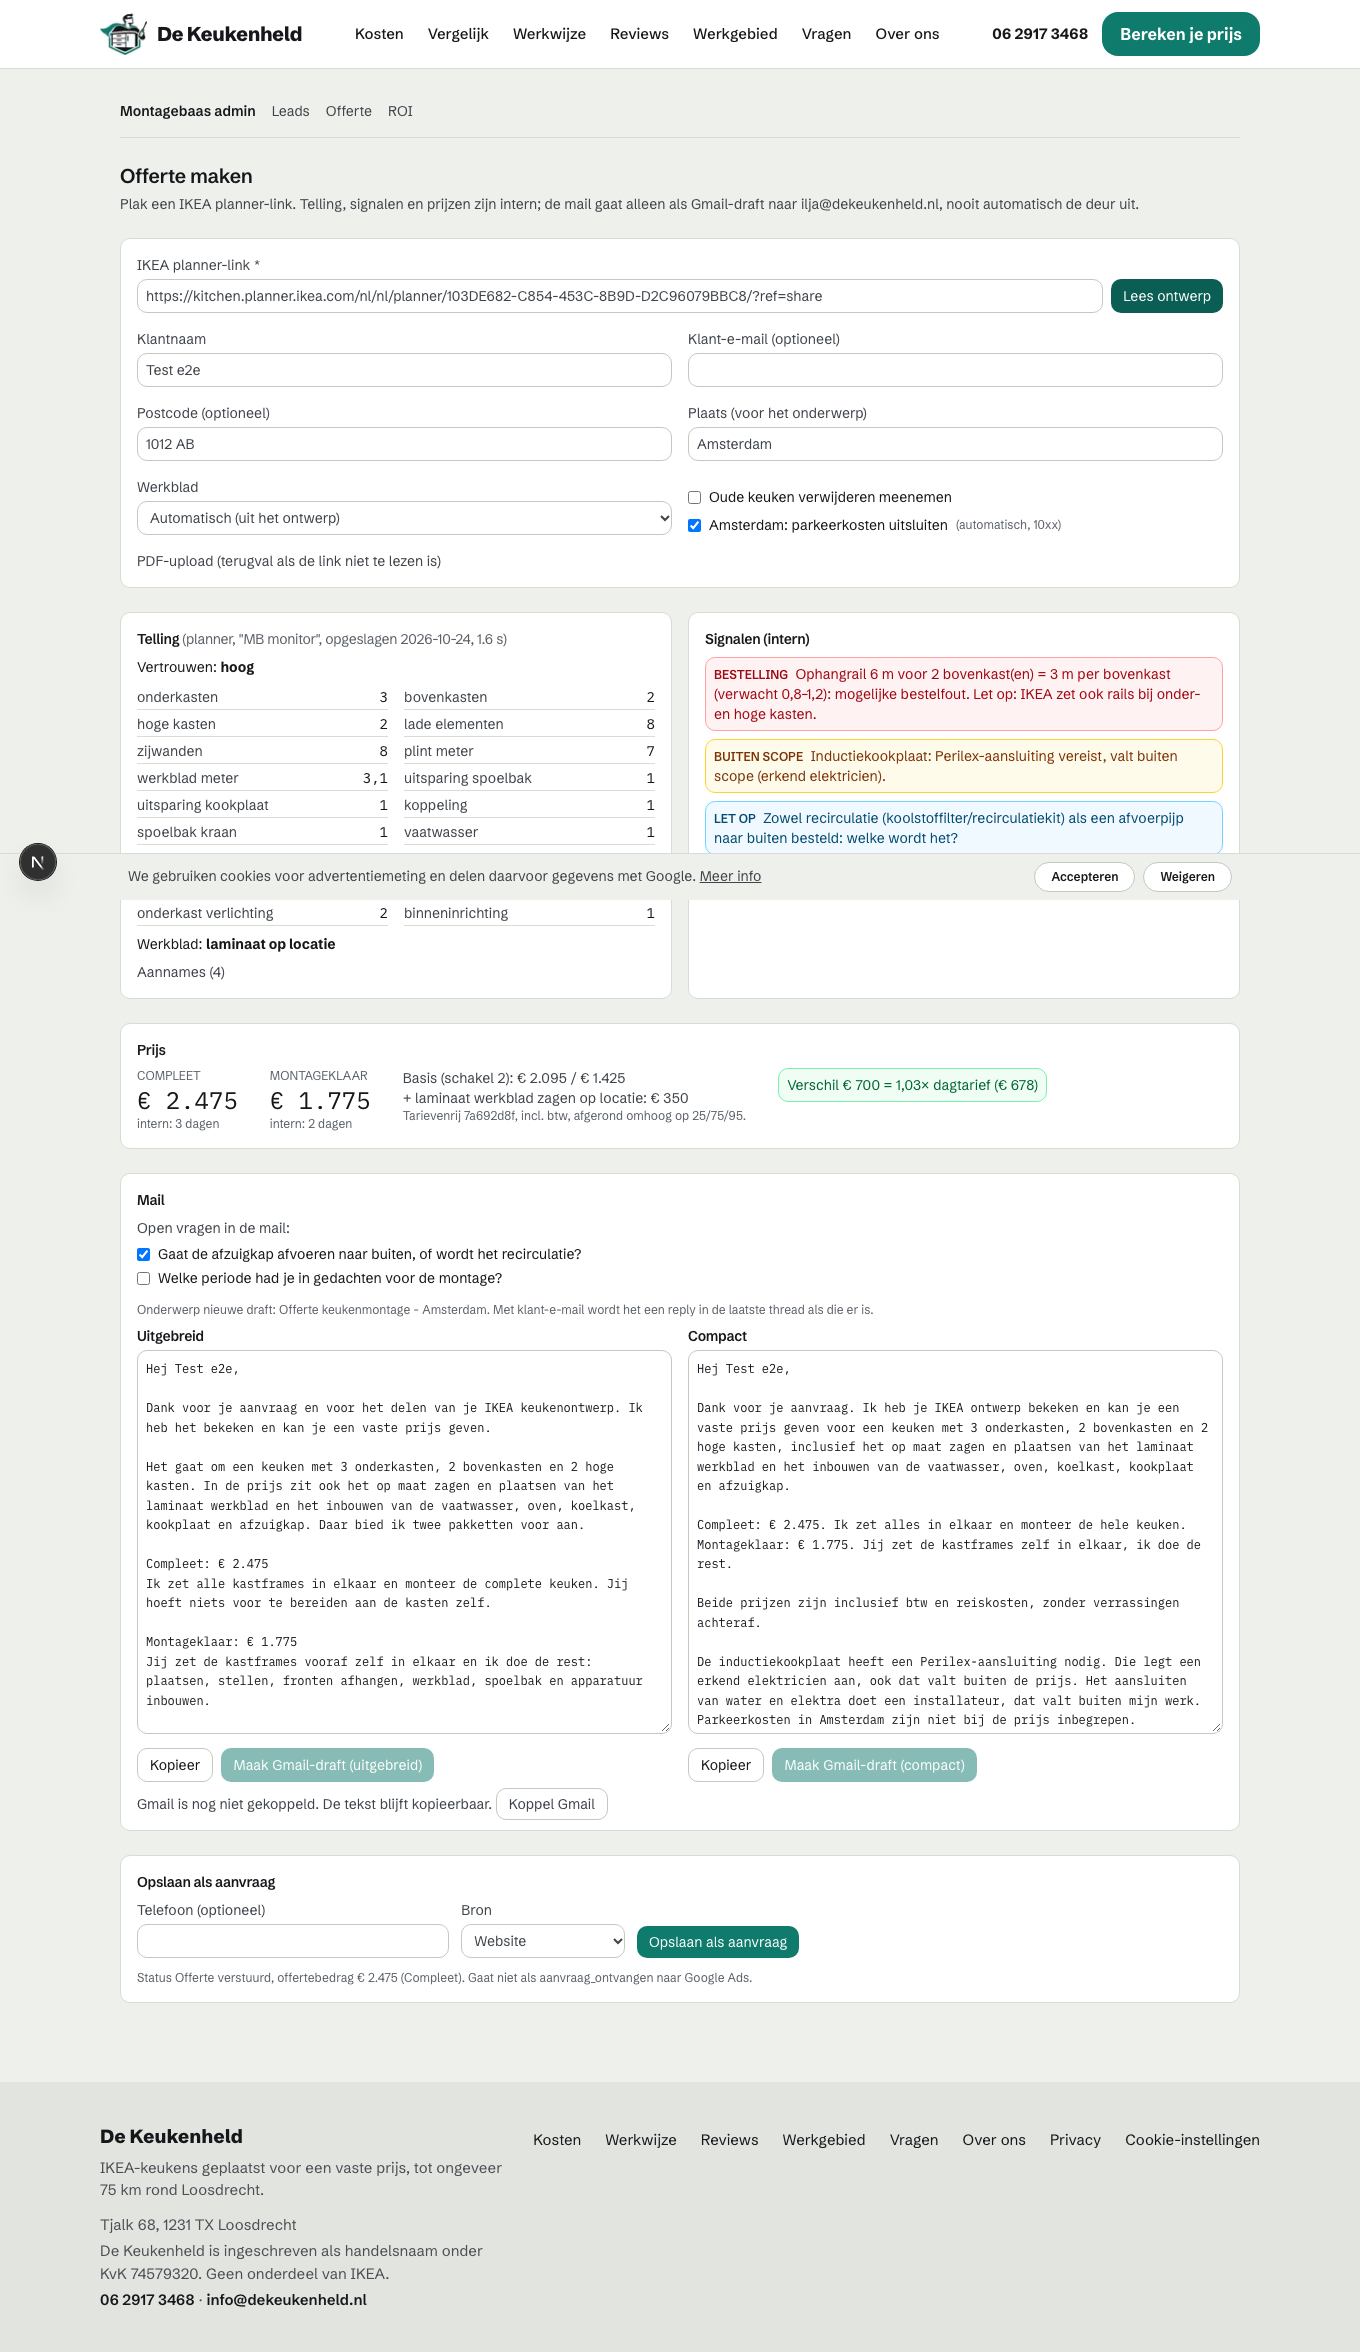
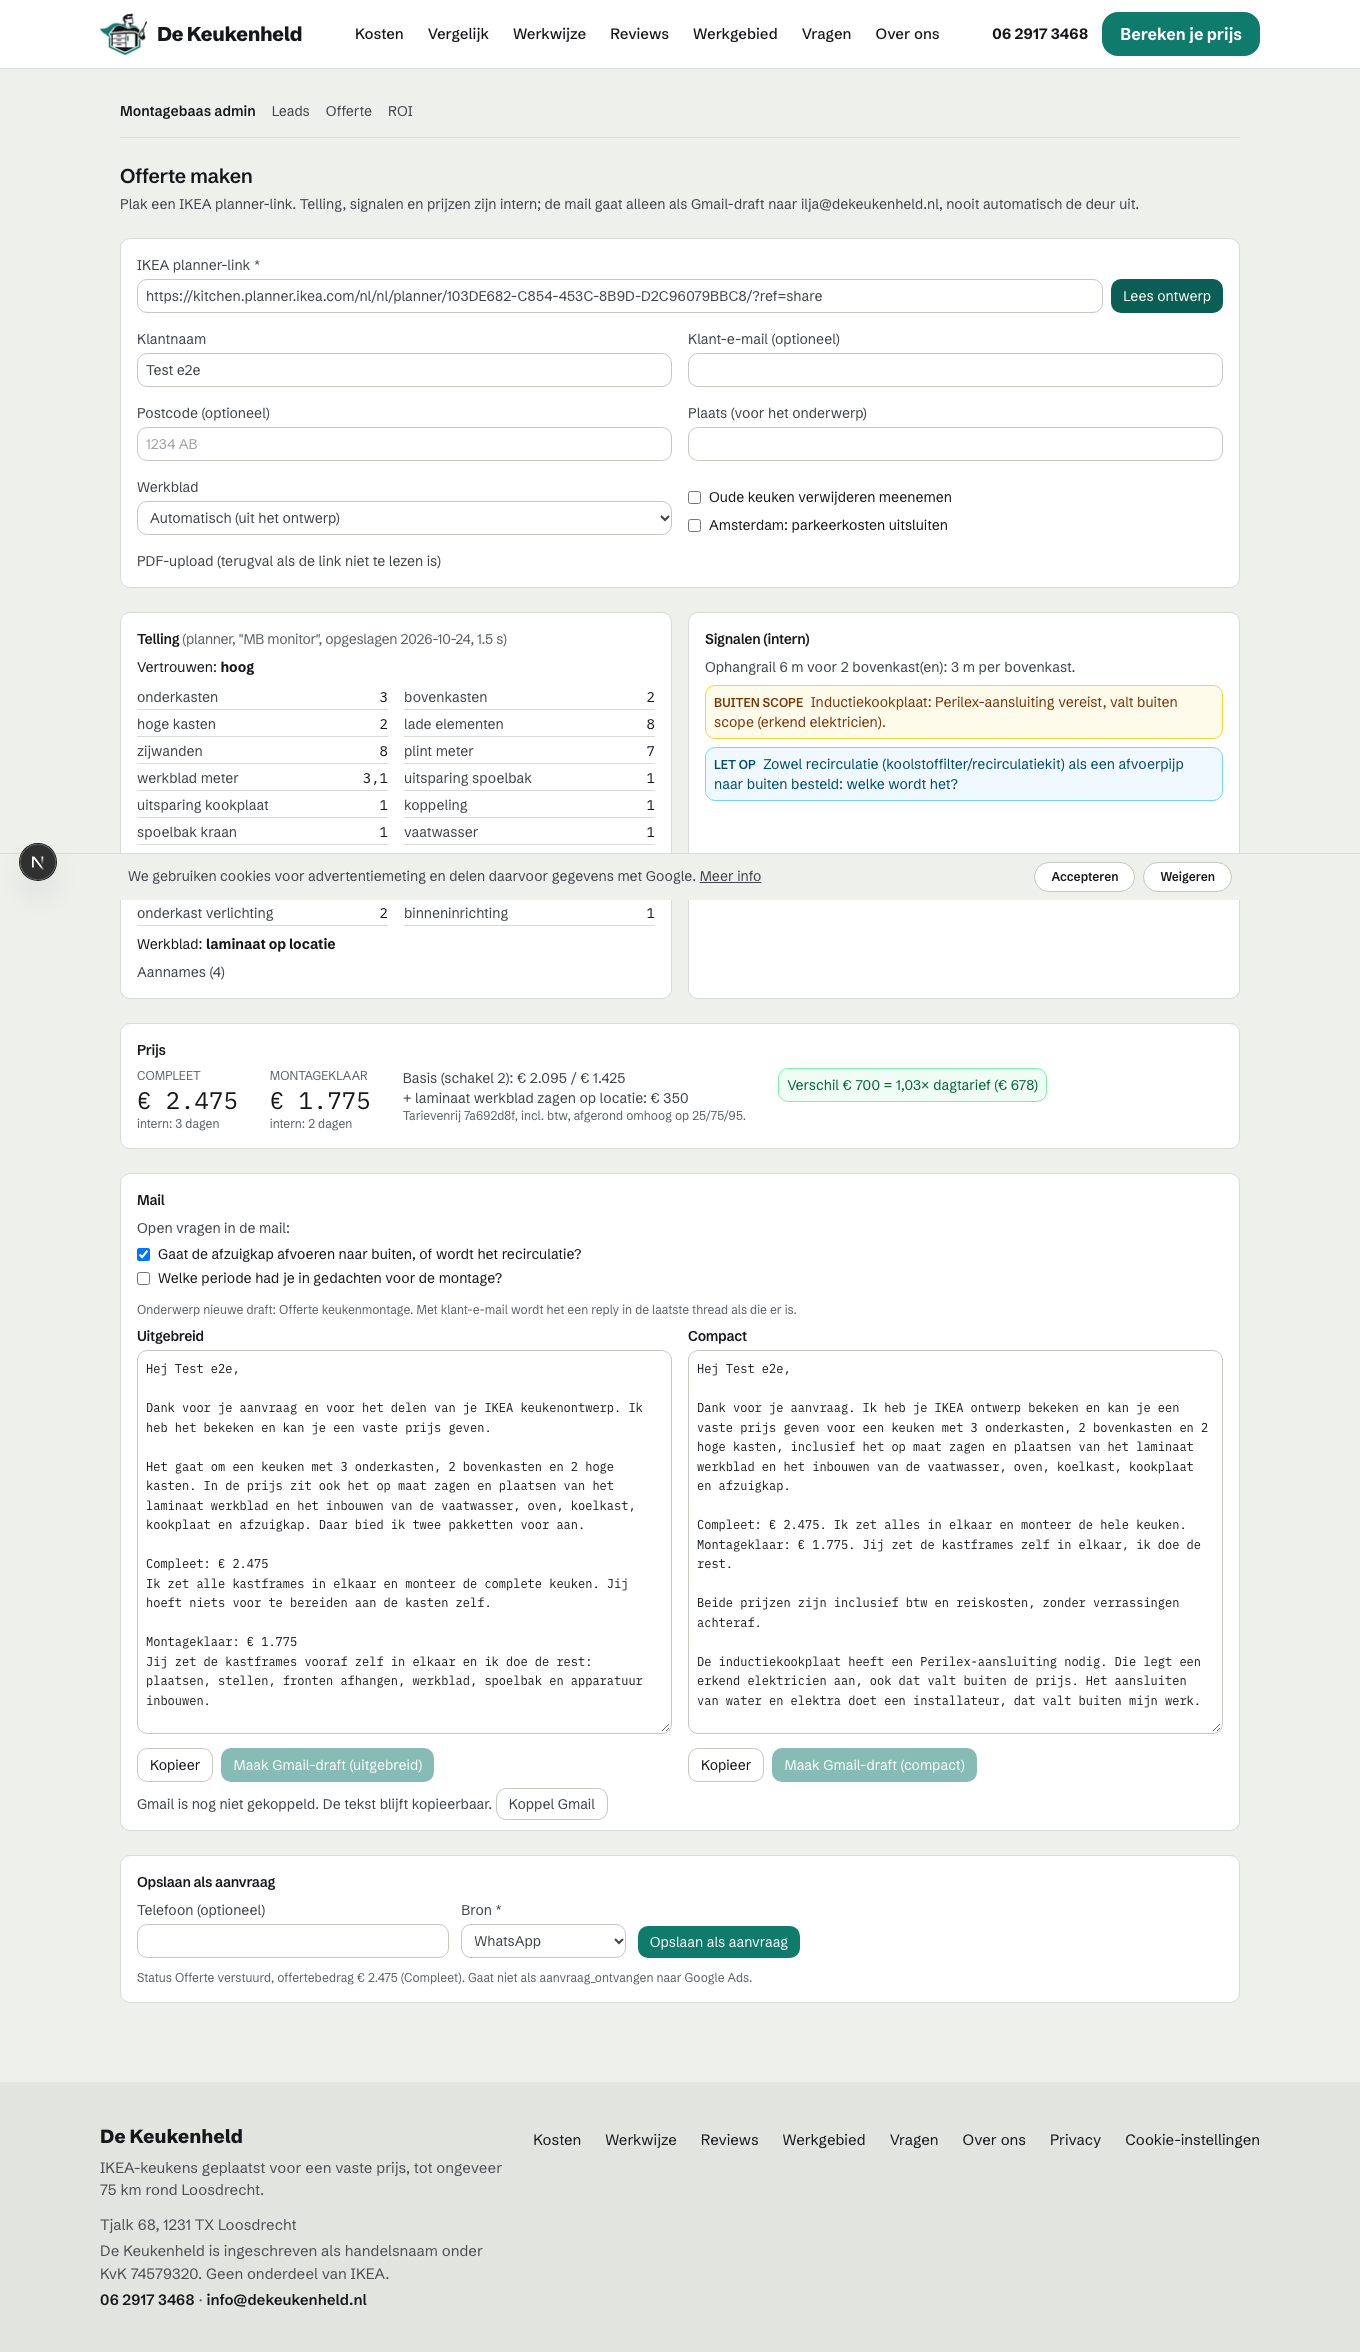
Admin-offerte: hangrail als info, bron verplicht met E-mail/WhatsApp/Telefoon
- Ophangrail per bovenkast is geen signaal meer, alleen een informatieregel.
- Bronkeuze bij opslaan verplicht, zonder standaard: Website, Werkspot,
  E-mail, WhatsApp, Telefoon, Overig. 0020 voegt email/whatsapp/telefoon
  toe aan lead_bron; alleen website blijft naar Google Ads gaan.

Changed region(s): [[0.525, 0.2793, 0.8956, 0.3724]]

diff --git a/src/app/admin/offerte/OfferteTool.tsx b/src/app/admin/offerte/OfferteTool.tsx
@@ -3,11 +3,11 @@
 import { useEffect, useMemo, useRef, useState, useTransition } from "react";
 import type { KoppelStatus } from "@/lib/gmail/client";
 import type { Analyse, AnalyseUitkomst, BestaandeAanvraag } from "@/lib/admin-offerte/server";
-import { LEAD_BRONNEN, type LeadBron } from "@/lib/db.types";
+import type { LeadBron } from "@/lib/db.types";
 import { parsePlannerLink } from "@/lib/ikea-planner/link";
 import { TELVELDEN } from "@/lib/rekenen";
 import { WERKBLAD_KEUZES, berekenOffertePrijs, effectiefWerkblad, type OffertePrijs, type WerkbladKeuze } from "@/lib/admin-offerte/prijs";
-import { beoordeelVertrouwen, bepaalSignalen, type SignaalNiveau } from "@/lib/admin-offerte/signalen";
+import { beoordeelVertrouwen, bepaalSignalen, hangrailInfo, type SignaalNiveau } from "@/lib/admin-offerte/signalen";
 import { bedragTekst, bepaalOpenVragen, controleerMail, maakMail, onderwerpNieuw, type MailVariant } from "@/lib/admin-offerte/mail";
 import { leesLinkActie, maakDraftActie, plaatsActie, slaOpActie, type DraftActieUitkomst } from "./actions";
 
@@ -23,7 +23,15 @@ const NIVEAU: Record<SignaalNiveau, { label: string; klasse: string }> = {
   buiten_scope: { label: "Buiten scope", klasse: "border-amber-300 bg-amber-50 text-amber-900" },
   let_op: { label: "Let op", klasse: "border-sky-300 bg-sky-50 text-sky-900" },
 };
-const BRON_LABEL: Record<LeadBron, string> = { website: "Website", werkspot: "Werkspot", doorverwijzing: "Doorverwijzing", overig: "Overig" };
+// Bronkeuze bij opslaan: verplicht, geen standaard. Alleen Website kan later naar Google Ads.
+const BRON_KEUZES: { waarde: LeadBron; label: string }[] = [
+  { waarde: "website", label: "Website" },
+  { waarde: "werkspot", label: "Werkspot" },
+  { waarde: "email", label: "E-mail" },
+  { waarde: "whatsapp", label: "WhatsApp" },
+  { waarde: "telefoon", label: "Telefoon" },
+  { waarde: "overig", label: "Overig" },
+];
 const VARIANTEN: MailVariant[] = ["uitgebreid", "compact"];
 
 export function OfferteTool({ gmail, melding }: { gmail: KoppelStatus; melding: { status: string; reden: string | null } | null }) {
@@ -41,7 +49,7 @@ export function OfferteTool({ gmail, melding }: { gmail: KoppelStatus; melding: 
   const [amsterdamHandmatig, setAmsterdamHandmatig] = useState<boolean | null>(null);
   const amsterdamAuto = /^\s*10\d{2}/.test(postcode);
   const amsterdam = amsterdamHandmatig ?? amsterdamAuto;
-  const [bron, setBron] = useState<LeadBron>("website");
+  const [bron, setBron] = useState<LeadBron | "">("");
 
   // ---- Uitkomst ----
   const [analyse, setAnalyse] = useState<Analyse | null>(null);
@@ -177,7 +185,7 @@ export function OfferteTool({ gmail, melding }: { gmail: KoppelStatus; melding: 
   }
 
   function slaOp(koppelAan: string | null) {
-    if (!analyse || !prijs.p) return;
+    if (!analyse || !prijs.p || !bron) return;
     const p = prijs.p;
     startBezig(async () => {
       const u = await slaOpActie({
@@ -344,6 +352,9 @@ export function OfferteTool({ gmail, melding }: { gmail: KoppelStatus; melding: 
 
             <section className={PANEEL}>
               <h2 className={KOP}>Signalen (intern)</h2>
+              {hangrailInfo(analyse.artikelen, analyse.telling.bovenkasten) && (
+                <p className="mb-2 text-sm text-[var(--color-ink-soft)]">{hangrailInfo(analyse.artikelen, analyse.telling.bovenkasten)}</p>
+              )}
               {signalen.length === 0 ? (
                 <p className="text-sm text-[var(--color-muted)]">Geen signalen.</p>
               ) : (
@@ -497,21 +508,24 @@ export function OfferteTool({ gmail, melding }: { gmail: KoppelStatus; melding: 
                   <input className={INPUT} value={telefoon} onChange={(e) => setTelefoon(e.target.value)} />
                 </label>
                 <label className={LABEL}>
-                  Bron
-                  <select className={INPUT} value={bron} onChange={(e) => setBron(e.target.value as LeadBron)}>
-                    {LEAD_BRONNEN.map((b) => (
-                      <option key={b} value={b}>
-                        {BRON_LABEL[b]}
+                  Bron *
+                  <select className={INPUT} value={bron} onChange={(e) => setBron(e.target.value as LeadBron | "")}>
+                    <option value="" disabled>
+                      Kies een bron
+                    </option>
+                    {BRON_KEUZES.map((b) => (
+                      <option key={b.waarde} value={b.waarde}>
+                        {b.label}
                       </option>
                     ))}
                   </select>
                 </label>
-                <button type="button" className={KNOP} disabled={bezig || !naam.trim() || !!aanvraagId} onClick={() => slaOp(null)}>
+                <button type="button" className={KNOP} disabled={bezig || !naam.trim() || !bron || !!aanvraagId} onClick={() => slaOp(null)}>
                   Opslaan als aanvraag
                 </button>
               </div>
               <p className="text-xs text-[var(--color-muted)]">
-                Status Offerte verstuurd, offertebedrag {bedragTekst(prijs.p.compleet)} (Compleet). Gaat niet als aanvraag_ontvangen naar Google Ads.
+                {!naam.trim() || !bron ? "Vul de klantnaam in en kies een bron om op te slaan. " : ""}Status Offerte verstuurd, offertebedrag {bedragTekst(prijs.p.compleet)} (Compleet). Gaat niet als aanvraag_ontvangen naar Google Ads.
               </p>
               {opslag?.ok && <p className="text-sm text-green-800">{opslag.ok}</p>}
               {opslag?.fout && <p className="text-sm text-red-700">{opslag.fout}</p>}

diff --git a/src/lib/admin-offerte/admin-offerte.test.ts b/src/lib/admin-offerte/admin-offerte.test.ts
@@ -10,7 +10,7 @@ import { leesBom } from "../ikea-planner/bom.ts";
 import type { Artikel } from "../ikea-planner/bom.ts";
 import { bomNaarTelling } from "../ikea-planner/telling.ts";
 import { berekenOffertePrijs, effectiefWerkblad, tellingMetWerkblad } from "./prijs.ts";
-import { beoordeelVertrouwen, bepaalSignalen, hangrailMeter, type SignaalInvoer } from "./signalen.ts";
+import { beoordeelVertrouwen, bepaalSignalen, hangrailInfo, hangrailMeter, type SignaalInvoer } from "./signalen.ts";
 import {
   PRIJS_SLOTZIN,
   bepaalOpenVragen,
@@ -150,16 +150,14 @@ const invoer = (o: Partial<SignaalInvoer> & { telling?: Partial<KeukenTelling> }
 });
 const ids = (i: SignaalInvoer) => bepaalSignalen(i).map((s) => s.id);
 
-test("hangrail: meters uit de omschrijving, ratio per bovenkast 0,8–1,2", () => {
+test("hangrail: alleen een informatieregel, nooit een signaal", () => {
   assert.equal(hangrailMeter([art("ophangrail", 3, "ophangrail, verzinkt, 200 cm")]), 6);
   assert.equal(hangrailMeter([art("ophangrail", 2, "ophangrail, verzinkt")]), 4); // zonder maat: 200 cm
-  const met = (rails: number, bk: number) =>
-    ids(invoer({ artikelen: [art("ophangrail", rails, "ophangrail, verzinkt, 200 cm")], telling: { bovenkasten: bk } }));
-  assert.ok(!met(2, 4).includes("hangrail")); // 4 m / 4 = 1,0
-  assert.ok(!met(2, 5).includes("hangrail")); // 0,8: grens telt mee
-  assert.ok(met(1, 4).includes("hangrail")); // 0,5
-  assert.ok(met(3, 4).includes("hangrail")); // 1,5
-  assert.ok(!met(3, 0).includes("hangrail")); // geen bovenkasten: geen ratio
+  const rails = [art("ophangrail", 3, "ophangrail, verzinkt, 200 cm")];
+  assert.equal(hangrailInfo(rails, 4), "Ophangrail 6 m voor 4 bovenkast(en): 1,5 m per bovenkast.");
+  assert.equal(hangrailInfo(rails, 0), "Ophangrail 6 m, geen bovenkasten.");
+  assert.equal(hangrailInfo([], 4), null); // PDF: geen artikellijst
+  for (const bk of [1, 4, 30]) assert.ok(!ids(invoer({ artikelen: rails, telling: { bovenkasten: bk } })).includes("hangrail"));
 });
 
 test("eiland en verankeringsframe: beide richtingen", () => {
@@ -196,7 +194,8 @@ test("pootjes tellen nergens mee als controle; vaatwasserpositie is geen onderka
 test("eigen fixtures: MB monitor en eiland-ontwerp geven de verwachte signalen", () => {
   const mb = mbMonitor();
   const s = bepaalSignalen({ ...mb, telling: mb.telling });
-  assert.deepEqual(s.map((x) => x.id).sort(), ["afzuig_conflict", "hangrail", "inductie"]);
+  assert.deepEqual(s.map((x) => x.id).sort(), ["afzuig_conflict", "inductie"]);
+  assert.equal(hangrailInfo(mb.artikelen, mb.telling.bovenkasten), "Ophangrail 6 m voor 2 bovenkast(en): 3 m per bovenkast.");
   const ei = eilandOntwerp();
   assert.equal(ei.telling.eiland, 1);
   assert.equal(ei.verankeringsframe, true);

diff --git a/src/lib/admin-offerte/signalen.ts b/src/lib/admin-offerte/signalen.ts
@@ -25,8 +25,6 @@ export interface Signaal {
   tekst: string;
 }
 
-/** Ophangrail in meters per bovenkast; daarbuiten is er mogelijk iets mis met de bestelling. */
-export const HANGRAIL_RATIO = { min: 0.8, max: 1.2 } as const;
 const RAIL_STANDAARD_CM = 200;
 
 /** Meters ophangrail uit de artikellijst ("ophangrail, verzinkt, 200 cm" × aantal). */
@@ -39,6 +37,19 @@ export function hangrailMeter(artikelen: Artikel[]): number {
   return Math.round(cm) / 100;
 }
 
+/**
+ * Ophangrail per bovenkast, als informatieregel: geen signaal. IKEA zet ook
+ * rails bij onder- en hoge kasten, dus een afwijkende ratio is geen bestelfout.
+ */
+export function hangrailInfo(artikelen: Artikel[], bovenkasten: number): string | null {
+  const m = hangrailMeter(artikelen);
+  if (!artikelen.length || (!m && !bovenkasten)) return null;
+  const nl = (n: number) => n.toLocaleString("nl-NL", { maximumFractionDigits: 2 });
+  return bovenkasten
+    ? `Ophangrail ${nl(m)} m voor ${bovenkasten} bovenkast(en): ${nl(m / bovenkasten)} m per bovenkast.`
+    : `Ophangrail ${nl(m)} m, geen bovenkasten.`;
+}
+
 const aantalSoort = (artikelen: Artikel[], re: RegExp) =>
   artikelen.filter((a) => re.test(a.soort)).reduce((s, a) => s + a.aantal, 0);
 
@@ -47,20 +58,7 @@ export function bepaalSignalen(i: SignaalInvoer): Signaal[] {
   const uit: Signaal[] = [];
   const voeg = (id: string, niveau: SignaalNiveau, tekst: string) => uit.push({ id, niveau, tekst });
 
-  // ---- Bestelling ----
-  if (artikelen.length && t.bovenkasten > 0) {
-    const m = hangrailMeter(artikelen);
-    const ratio = m / t.bovenkasten;
-    if (ratio < HANGRAIL_RATIO.min - 1e-9 || ratio > HANGRAIL_RATIO.max + 1e-9) {
-      voeg(
-        "hangrail",
-        "bestelfout",
-        `Ophangrail ${m.toLocaleString("nl-NL")} m voor ${t.bovenkasten} bovenkast(en) = ${ratio.toLocaleString("nl-NL", { maximumFractionDigits: 2 })} m per bovenkast ` +
-          `(verwacht 0,8–1,2): mogelijke bestelfout. Let op: IKEA zet ook rails bij onder- en hoge kasten.`
-      );
-    }
-  }
-
+  // ---- Bestelling (ophangrail: alleen informatie, zie hangrailInfo) ----
   if (t.eiland > 0 && !i.verankeringsframe && artikelen.length) {
     voeg("eiland_zonder_frame", "bestelfout", "Eiland zonder verankeringsframe voor kookeiland: controleren of dat nodig is.");
   }

diff --git a/src/app/admin/offerte/actions.ts b/src/app/admin/offerte/actions.ts
@@ -2,7 +2,7 @@
 
 import { verifieerAdminSessie } from "@/lib/admin-auth";
 import { GmailKoppelingFout } from "@/lib/gmail/client";
-import { LEAD_BRONNEN, type LeadBron } from "@/lib/db.types";
+import type { LeadBron } from "@/lib/db.types";
 import {
   analyseerLink,
   maakOfferteDraft,
@@ -17,6 +17,8 @@ import {
 
 // Server actions van /admin/offerte. proxy.ts dekt /admin/*; verifieerAdminSessie
 // herhaalt de Basic-Auth-check vlak bij elke actie (zelfde patroon als /admin/leads).
+
+const ADMIN_BRONNEN: LeadBron[] = ["website", "werkspot", "email", "whatsapp", "telefoon", "overig"];
 
 export async function leesLinkActie(plannerUrl: string): Promise<AnalyseUitkomst> {
   await verifieerAdminSessie();
@@ -45,7 +47,7 @@ export async function slaOpActie(i: OpslaanInvoer): Promise<OpslaanUitkomst> {
   await verifieerAdminSessie();
   if (!i.naam.trim()) return { ok: false, fout: "Klantnaam is verplicht om op te slaan." };
   if (i.email.trim() && !/^\S+@\S+\.\S+$/.test(i.email.trim())) return { ok: false, fout: "Klant-e-mail is ongeldig." };
-  if (!LEAD_BRONNEN.includes(i.bron as LeadBron)) return { ok: false, fout: "Ongeldige bron." };
+  if (!ADMIN_BRONNEN.includes(i.bron)) return { ok: false, fout: "Kies een bron (Website, Werkspot, E-mail, WhatsApp, Telefoon of Overig)." };
   if (!(i.compleet > 0 && i.montageklaar > 0)) return { ok: false, fout: "Geen prijs om op te slaan." };
   try {
     return await slaOp(i);

diff --git a/src/lib/db.types.ts b/src/lib/db.types.ts
@@ -166,9 +166,10 @@ export interface AdsConversieUploadRow {
   verwerking: Verwerking | null;
 }
 
-export type LeadBron = "website" | "werkspot" | "doorverwijzing" | "overig";
+// email/whatsapp/telefoon: 0020, voor aanvragen uit /admin/offerte.
+export type LeadBron = "website" | "werkspot" | "doorverwijzing" | "overig" | "email" | "whatsapp" | "telefoon";
 
-export const LEAD_BRONNEN: LeadBron[] = ["website", "werkspot", "doorverwijzing", "overig"];
+export const LEAD_BRONNEN: LeadBron[] = ["website", "werkspot", "doorverwijzing", "email", "whatsapp", "telefoon", "overig"];
 
 // Spiegelt montagebaas.lead_overzicht (0005_lead_status.sql, notitie sinds 0006).
 export interface LeadOverzichtRow {

diff --git a/src/app/admin/leads/page.tsx b/src/app/admin/leads/page.tsx
@@ -35,6 +35,9 @@ const BRON_LABELS: Record<LeadBron, string> = {
   website: "Website",
   werkspot: "Werkspot",
   doorverwijzing: "Doorverwijzing",
+  email: "E-mail",
+  whatsapp: "WhatsApp",
+  telefoon: "Telefoon",
   overig: "Overig",
 };
 
